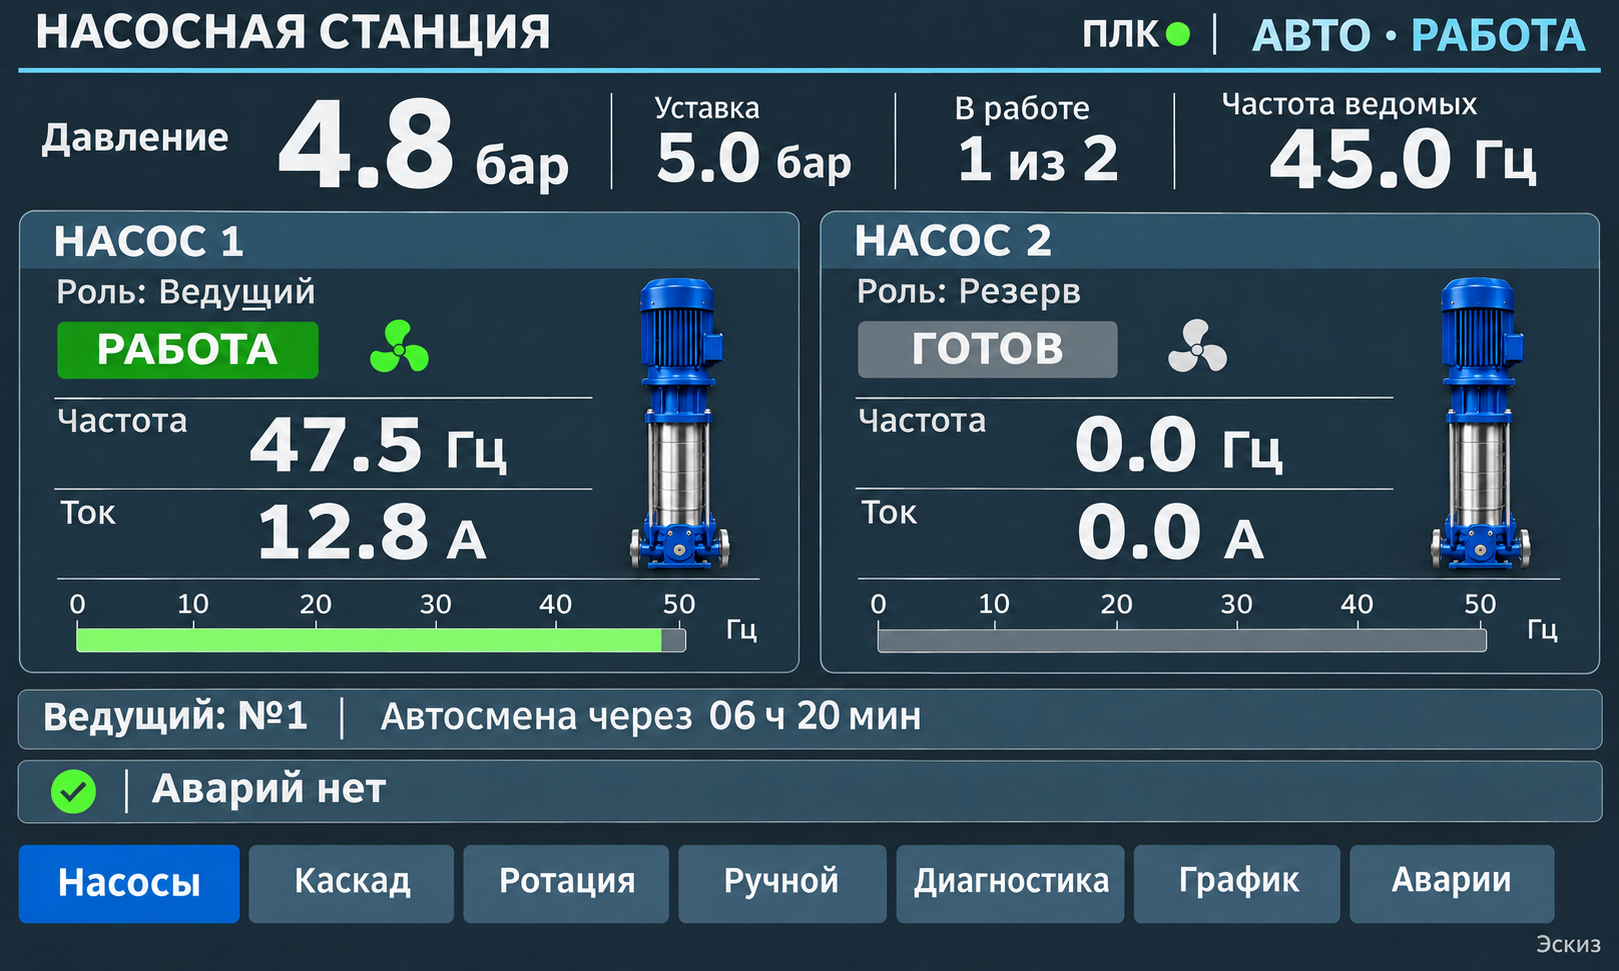
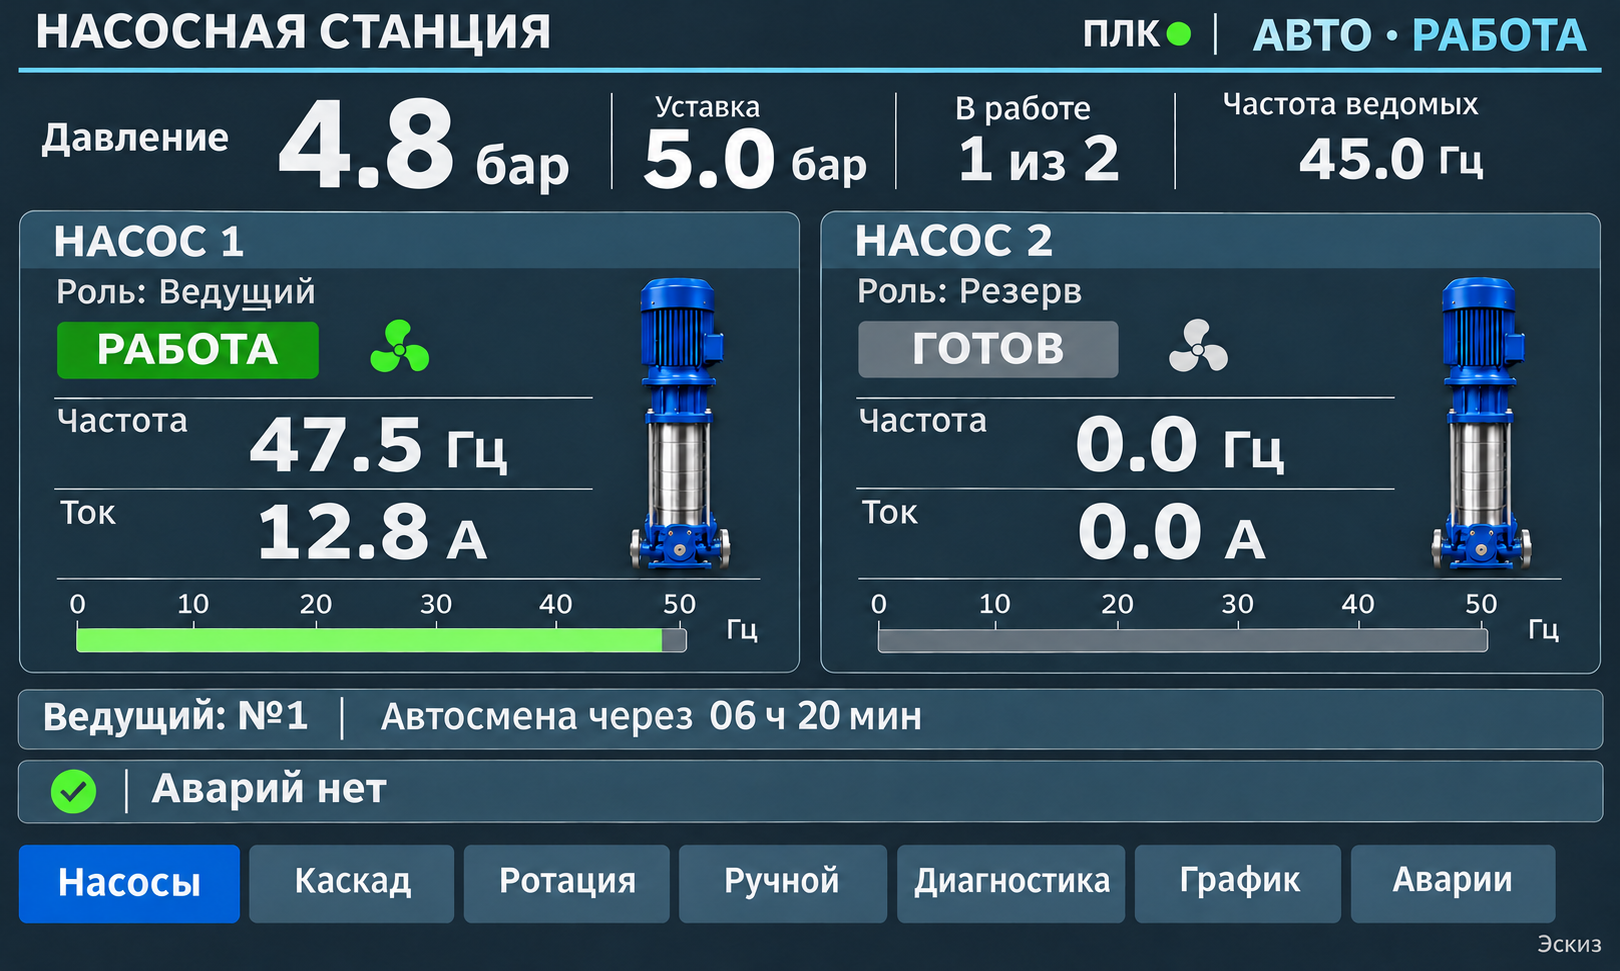
design: enlarge pressure setpoint and reduce follower frequency text

diff --git a/docs/ui/station002-main-modern.md b/docs/ui/station002-main-modern.md
@@ -31,6 +31,10 @@
 - Верхняя сводка: давление, уставка, число работающих, **частота ведомых**.
   Пользователь поручил поставить её вместо большого блока «ПЛК: связь есть».
   Связь остаётся компактной индикацией в заголовке с текстовым состоянием.
+- Последнее уточнение пользователя: **увеличить цифры «Уставка», уменьшить
+  цифры «Частота ведомых»**. Это только изменение размера: положения,
+  подписи, границы блоков и остальная компоновка сохраняются. Уставка
+  заметно крупнее общей частоты ведомых во всех2/3/4конфигурациях.
 - Общая заданная частота ведомых — прежний read-only **ND3018 → R2110**
   из текущего Main. Это не среднее фактических частот. В карточках остаются
   фактические F каждого ПЧ. При переносе сохранить тип/масштаб/качество ND3018.

diff --git a/docs/tasks/station002-main-modern-r20-local.md b/docs/tasks/station002-main-modern-r20-local.md
@@ -11,6 +11,9 @@
 вариант не использовать. На месте большого «ПЛК: связь есть» — **Частота
 ведомых45.0Гц** (пример). Связь компактно в заголовке. Общая частота
 ведомых сохраняет прежнюю привязку Main ND3018/R2110 и его масштаб.
+Последняя правка: **«Уставка» крупнее, «Частота ведомых» меньше**; изменить
+только размеры цифр, сохраняя подписи, положения/границы блоков и остальную
+компоновку. Актуальные PNG/manifest уже включают эту поправку.
 
 1. Закончи и сохрани native r19 с исправленной телеметрией, запиши путь/SHA
    и actual Open/Compile/Simulator. Для следующего этапа возьми именно этот

diff --git a/docs/HANDOFF.md b/docs/HANDOFF.md
@@ -1,5 +1,9 @@
 ## 17.11.2026 — выбран современный Main №1; 2/3насоса7″,4насоса10″
 
+Последнее уточнение: увеличить цифры уставки и уменьшить общую частоту
+ведомых; менять только размер, остальную компоновку сохранить. Три PNG,
+их hashes/manifest и задание r20 обновлены. Native SKM не менялся.
+
 Пользователь отклонил прежние металлические/sidebar-эскизы и выбрал
 тёмный матовый серо-синий вариант№1: «берём его за основу максимально».
 Сохранены точные последние PNG для2/3/4насосов в

diff --git a/AGENTS.md b/AGENTS.md
@@ -1,6 +1,8 @@
 # Работа с проектом
 
 **17.11: пользователь выбрал новый Main — тёмный матовый вариант №1.**
+Последнее уточнение: только размер — «Уставка» больше, «Частота ведомых»
+меньше во всех2/3/4макетах; новые PNG/manifest и r20task это учитывают.
 Просьба «берём его за основу максимально». Отклонены старые silver/sidebar
 эскизы и светлый вариант№2. Дополнено:2/3насоса→7″/800×480;4насоса→10″,
 исходный SK-102CE действительно1024×600. В большой правый блок верхней
